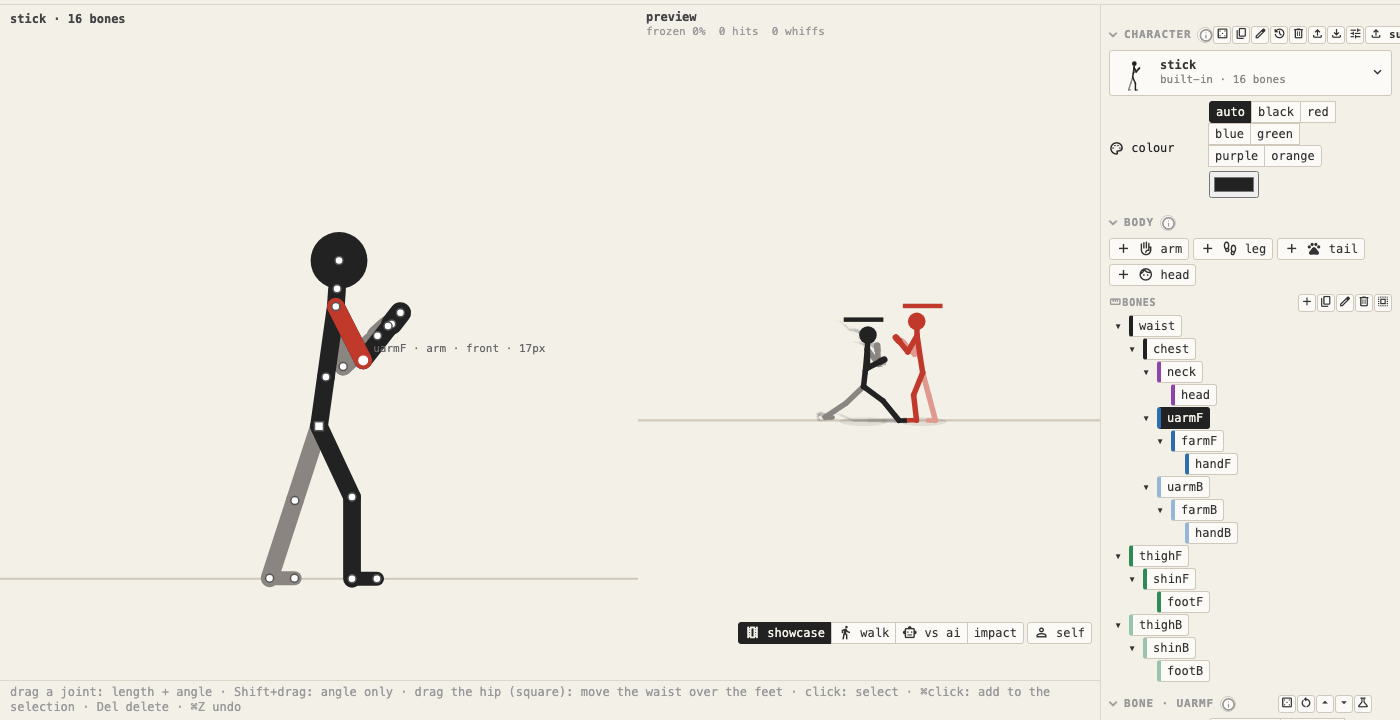
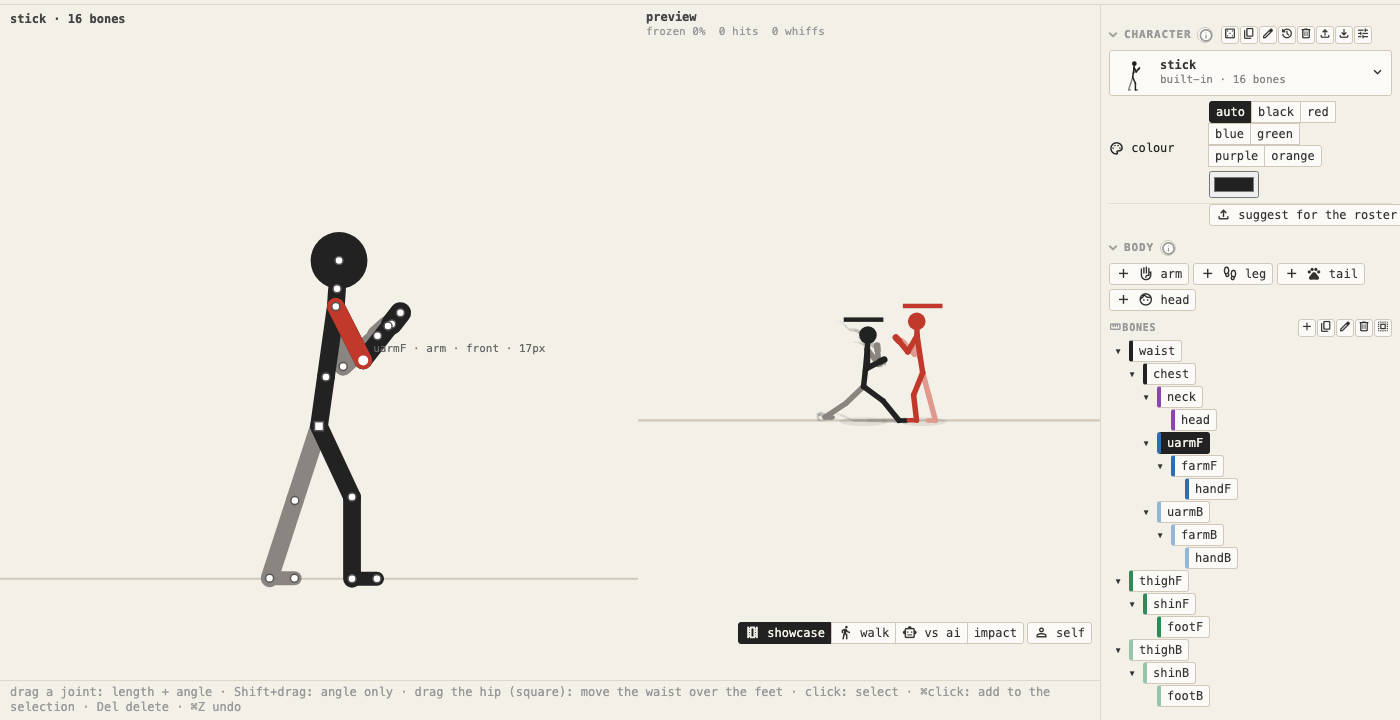
Suggest a character: an issue with an attached file, not a PR draft
- Old flow pre-filled a GitHub PR URL, too big for a character and still needed a fork
- New flow: export the file, open a blank issue, attach it there
- Moved the button into its own labelled row; docs updated to match

Changed region(s): [[0.7986, 0.275, 1.0, 1.0], [0.86, 0.0306, 1.0, 0.0611]]

diff --git a/src/studio.js b/src/studio.js
@@ -201,27 +201,24 @@ function importChar(clip) {
     try { makeCharacter(def); addChar(def, name.replace(/\.json$/, '')); } catch (err) { notice('Not a character file', err.message); }
   });
 }
-// ---------- suggest a character for the roster: no server and no sign-in beyond the contributor's own GitHub account ----------
-// opens GitHub's own "new file" page; GitHub forks the repo for you and offers "Propose changes" there, which opens a
-// real PR. The JSON always goes to the clipboard, which is the real mechanism: a character alone is ~70 KB, a GitHub
-// URL this long is outright refused (not just truncated) well before that, and the showcase replay roughly doubles
-// it - so the URL only attempts its own value= prefill on the rare character small enough to actually fit; normally
-// (always, in practice) the box opens empty and pasting is the expected step, not a fallback for an edge case
-// (see CONTRIBUTING.md for what a maintainer does with a PR like this)
-const GITHUB_URL_SAFE_LEN = 6000;
-function suggestCharPR() {
-  const payload = { character: DEFS[CURRENT], showcase: showcaseReplay() }, path = `contrib/characters/${CURRENT}.json`;
-  const json = JSON.stringify(payload, null, 1);
-  copyData(payload);
-  const message = CHAR_DEFS[CURRENT] ? `Suggest a change to ${CURRENT}` : `Suggest adding ${CURRENT} to the roster`;
-  const full = `https://github.com/morbeo/stick2/new/master?${new URLSearchParams({ filename: path, value: json, message })}`;
-  const fits = full.length <= GITHUB_URL_SAFE_LEN;
-  const url = fits ? full : `https://github.com/morbeo/stick2/new/master?${new URLSearchParams({ filename: path, message })}`;
-  window.open(url, '_blank');
-  notice('Suggestion opened on GitHub', (fits
-    ? `A new tab opened on GitHub with ${CURRENT}'s JSON (and a showcase replay, bookmarked at each move) pre-filled at ${path} — paste it from your clipboard instead if the box looks empty or cut off.`
-    : `A new tab opened on GitHub at ${path}. The box is empty — paste (Ctrl/Cmd+V) to fill it in: it's already on your clipboard. That's the normal way this works, not an error: a character alone is bigger than a URL can reliably carry.`
-  ) + '\n\nSign in if it asks: GitHub forks stick2 for you automatically. Then scroll down, click "Propose new file", and "Create pull request".');
+// ---------- suggest a character for the roster: an issue + an attached file, no local git, no sign-in beyond GitHub ----------
+// used to pre-fill GitHub's "new file" page instead (a PR draft) - a character alone is ~70 KB, well past any URL
+// GitHub will accept (it refuses an oversized request outright, not just truncates it), so that page almost always
+// opened empty anyway, and still needed a fork + "propose changes" even once pasted. An issue with the exported file
+// attached needs neither: any signed-in account can open one, and dragging a file in is a familiar step.
+async function suggestChar() {
+  const name = CURRENT, add = !CHAR_DEFS[name];
+  const text = `1. Export this character as a file (below) — you'll attach it to the issue.\n2. Open a new issue on GitHub (below) and drag the exported file in.\n3. Say what's new or changed; a maintainer folds it into the roster (see CONTRIBUTING.md).`;
+  for (;;) {
+    const v = await dialog(`Suggest ${add ? `adding ${name}` : `a change to ${name}`}`, text, [
+      [':download: export character file', 'export', 'Download this character as a JSON file to attach to the issue'],
+      [':north_east: open a new issue', 'issue', 'Opens a new GitHub issue on this repo — attach the exported file there'],
+      [':check: done', null, 'Close this'],
+    ]);
+    if (v === 'export') exportChar(false);
+    else if (v === 'issue') window.open(`https://github.com/morbeo/stick2/issues/new?title=${encodeURIComponent(`Suggest ${add ? `adding ${name}` : `a change to ${name}`}`)}`, '_blank');
+    else break;
+  }
 }
 // ---------- files (the menu bar): export / import the character, the settings, or everything (edited characters, settings, my scenarios, keys), to a file or the clipboard ----------
 const FILE_TIPS = { character: 'The character being edited: skeleton, poses, moves, binds',
@@ -456,15 +453,17 @@ function charPanel() {
     delete: ['Delete this character (only your own ones; asks first, cannot be undone)', deleteChar],
     import: ['Load a character JSON file as a new character', importChar],
     export: ['Download this character as a JSON file', exportChar],
-  }, button(':tune:', 'What the random characters are drawn from, and an experiment grid of them', (e, b) => popup(b, ...randomPanel()), 'mini'),
-    button(':upload: suggest', 'Propose this character for the roster as a pull request: opens a pre-filled GitHub page, no local git needed (see CONTRIBUTING.md)', suggestCharPR, 'mini')));
+  }, button(':tune:', 'What the random characters are drawn from, and an experiment grid of them', (e, b) => popup(b, ...randomPanel()), 'mini')));
   // the current character only; the others in a popup grid (picking one is rare next to editing it)
   const cv = h('canvas'), name = h('b'), info = h('span', { cls: 'note' });
   const pick = h('button', { cls: 'charpick', tip: 'The character every mode uses · click: pick another',
     onclick: () => popup(pick, h('div', { cls: 'cards' }, Object.keys(DEFS).map(k => charCard(k)))) }, cv, h('span', {}, name, info), ...rich(':expand_more:'));
   reg(pick, () => { const c = currentChar(); drawThumb(cv, c, undefined, 36, 40); name.textContent = CURRENT;
     info.textContent = `${CHAR_DEFS[CURRENT] ? 'built-in' : 'yours'} · ${c.bones.length} bones`; });
-  return [head, pick, colorRow()];
+  // its own row, not a small icon lost in the crud bar: proposing a character for the roster is a one-off, worth noticing
+  const suggestRow = h('div', { cls: 'row', tip: 'Think this character belongs in the roster? Export it and open an issue - a maintainer folds it in.' },
+    button(':upload: suggest for the roster', 'Export this character and open a GitHub issue to propose it, with instructions (see CONTRIBUTING.md)', () => suggestChar()));
+  return [head, pick, colorRow(), suggestRow];
 }
 // a character's own colour (def.col): unset (auto) leaves it to the player slot in a fight (P1 black, P2 red…, as every
 // built-in does today); set, it is always drawn that way — in a fight too, overriding the slot. Preset swatches, or any

diff --git a/src/palette.js b/src/palette.js
@@ -35,7 +35,7 @@ function paletteEntries() {
     { kind: 'table', name: 'compare settings', tip: CMP_PANEL_TIP, run: openCompare },
     { kind: 'action', name: 'reset settings', tip: 'Every setting back to its default; the display aids (ghost, boxes, scope, hud, labels, timer) stay (⌘Z undoes)', run: () => { applyPreset('juicy'); mode().restart(); } },
     { kind: 'action', name: 'factory reset', tip: 'Delete all local data (characters, settings, keys, macros, layout) and reload; asks first', run: () => factoryReset() },
-    { kind: 'action', name: 'suggest this character', tip: 'Propose the current character for the roster as a pull request: opens a pre-filled GitHub page, no local git needed (see CONTRIBUTING.md)', run: suggestCharPR },
+    { kind: 'action', name: 'suggest this character', tip: 'Export the current character and open a GitHub issue to propose it for the roster, with instructions (see CONTRIBUTING.md)', run: suggestChar },
     { kind: 'action', name: 'copy embed link', tip: 'Copy a link that embeds the current scenario, pre-loaded (paste as an <iframe> src)', run: () => { const u = curU(); if (u) navigator.clipboard?.writeText(embedLink(u)); } },
     { kind: 'action', name: 'kitchen sink', tip: 'Every shared UI component on one page, for checking a theme change or hunting a visual bug', run: () => openKitchenSink() },
     ...Object.keys(DEFS).map(c => ({ kind: 'character', name: c, tip: 'Use this character in every mode', run: () => pickChar(c) })),

diff --git a/CONTRIBUTING.md b/CONTRIBUTING.md
@@ -20,11 +20,11 @@ Useful things to include in a report:
 
 Looking for what to work on, or how to use the character/animate/experiment tools to build one? See [Contributing to the roster](docs/roster-contributing.md). This section is just the mechanics of the button that submits it.
 
-The character tab has a **suggest** button (next to export) for proposing a roster character — your own edit of a built-in, or a brand new one — without using git at all.
+The character tab has a **suggest for the roster** button, its own row under the heading, for proposing a roster character — your own edit of a built-in, or a brand new one — without using git at all.
 
-It copies a JSON payload to your clipboard — `{ character, showcase }`: the character's full compiled definition, plus a replay of it playing the **showcase** scenario (punches, a kick, a sweep, a jump kick, a throw, a special), bookmarked at each of those beats so a reviewer can jump straight between them in the replay tab instead of scrubbing. Then it opens GitHub's "new file" page for this repo at `contrib/characters/<name>.json`. The box there opens **empty** — paste it (it's already on your clipboard) — that's normal, not an error: a character alone is bigger than a URL can reliably carry, and GitHub refuses an oversized one outright rather than truncating it, so the page only attempts to pre-fill the box on the rare character small enough to actually fit. Sign in if asked; GitHub forks the repo for you automatically. From there: scroll down, click **Propose new file**, then **Create pull request**.
+It opens a dialog with three steps: **export** downloads the character as a JSON file, **open a new issue** opens a blank GitHub issue on this repo (sign in if asked — no fork needed, unlike a pull request), and you attach the exported file to it and describe what's new or changed. An earlier version of this button tried to pre-fill a GitHub "new file" page (a PR draft) with the character's JSON in the URL itself — a character alone is bigger than a URL can reliably carry, and GitHub refuses an oversized request outright rather than truncating it, so that page almost always opened empty anyway, and still needed a fork and "Propose changes" even once pasted. An issue with a file attached needs neither.
 
-A PR like this is a staged suggestion, not a finished change: `contrib/characters/<name>.json`'s `.character` is the character's compiled JSON (bones, poses, moves — the same format the character export/import buttons use); `.showcase` is a replay file (same format as replay export/import) you can drop straight into the replay tab's import to watch. Merging it means hand-folding `.character` into `src/roster.js` (or importing it locally to look it over first, with the character import button's "from the clipboard" option) and deleting the staging file in the same commit — plain review, same as any other PR.
+A suggestion like this is a staged proposal, not a finished change: the attached JSON is the character's full compiled definition (bones, poses, moves — the same format the character export/import buttons use). Turning it into a PR means hand-folding it into `src/roster.js` (or importing it locally to look it over first, with the character import button's "from the clipboard" option) — plain review, same as any other change. A replay of the character in action is a nice addition for reviewers, not required: play it through the **showcase** scenario and export that from the replay tab alongside the character file.
 
 ## Pull requests
 

diff --git a/docs/roster-contributing.md b/docs/roster-contributing.md
@@ -22,7 +22,7 @@ None of this needs to land in one PR — a single new move, one extra limb, or a
 
 1. **Build or edit a character** in the character tab — drag joints, add limbs, tune stats and gait, pick or build a move in animate. [Editing → Characters](editing.md#characters) and [Modes → Character](modes.md#character) cover the tab itself.
 2. **Test it** — the tests tab and the experiment tab (below) catch broken moves and let you feel out the physics before submitting.
-3. **Click suggest** (next to export, in the character panel's header row): it plays the character through the **showcase** scenario, bookmarks each beat of it, and copies both to your clipboard — then opens a GitHub page to paste it into, no local git needed. The mechanics are in [CONTRIBUTING.md → Suggesting a character](../CONTRIBUTING.md#suggesting-a-character).
+3. **Click suggest for the roster** (its own row in the character panel): export the file, open a GitHub issue, attach the file — no local git needed. The mechanics are in [CONTRIBUTING.md → Suggesting a character](../CONTRIBUTING.md#suggesting-a-character).
 
 ## The animation tool
 

diff --git a/docs/interface.md b/docs/interface.md
@@ -31,7 +31,7 @@ Three rows, the same in every tab:
 - A broken character in the file loads nothing.
 - Settings take any number. Outside a setting's usual range the value box turns amber, far outside it red: the fight may get unstable.
 - **import → compare…** compares a settings or everything file with the current settings, without loading it (below).
-- The character tab also has a **suggest** button (next to export): proposes the character for the roster as a pull request, no local git needed — see [Contributing to the roster](roster-contributing.md).
+- The character tab also has its own **suggest for the roster** row: proposes the character via a GitHub issue with the exported file attached, no local git needed — see [Contributing to the roster](roster-contributing.md).
 
 ### Compare settings
 
